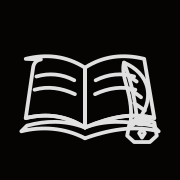
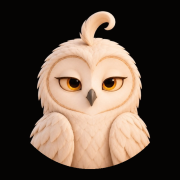
feat(pwa): иконка-сова и исходник для домашнего экрана iOS (#1151)

diff --git a/qa-evidence/brand/README.md b/qa-evidence/brand/README.md
@@ -1,0 +1,38 @@
+# Иконки PWA с совой (issue #1151)
+
+Исходник: `docs/sources/brand/owl-icon-source.jpg` (640×640, прислан владельцем).
+Генератор: `scripts/generate-owl-icons.mjs` (Playwright из devDependencies, новых
+зависимостей нет).
+
+## Что сделано с кольцом
+
+Светлое кольцо на исходнике удалено маской, без дорисовки: скрипт находит окружность
+по внешней границе ярких пикселей (центр 317.83, 311.95; внешний радиус 303.17),
+берёт 2-й процентиль внутреннего края по лучам (289.42) и обрезает всё от 288.67
+наружу. Фон поднимается до #050403 максимумом по каналам, поэтому остаются только
+пиксели совы, а вся площадь квадрата — ровный #050403 (проверено в углу: 5, 4, 3).
+
+Следов кольца нет: за границей обрезки не остаётся ни одного его пикселя.
+
+**Что важно знать:** в нижней части и слева сова подходит к кольцу вплотную и
+перекрывает его внутреннюю сторону. Там перья заканчиваются ровно по внутреннему
+краю кольца — то есть по той линии, где кольцо и начиналось. Дорисовка не
+применялась. Увеличенный кадр: `owl-ring-cut-zoom.png` (слева исходник, справа
+`icon-512.png`).
+
+## Результат
+
+| Файл                             | Размер    | Сова в кадре                 |
+| -------------------------------- | --------: | ---------------------------- |
+| `public/icons/icon-192.png`      | 192×192   | 88.5% по большей стороне     |
+| `public/icons/icon-512.png`      | 512×512   | 87.9%                        |
+| `public/apple-touch-icon.png`    | 180×180   | 87.8%                        |
+| `public/icons/icon-maskable-512.png` | 512×512 | 76.2%, максимальный радиус 197.9 < 204.8 (безопасный круг 80%) |
+
+Сова центрирована: bounding box 512-й иконки `x 84…427`, `y 31…480`, центр 255.5.
+Перо на макушке не обрезано (верх совы — `y 31` при обрезке кольца снизу и по бокам).
+
+Превью всех четырёх иконок: `owl-icons-preview.png` (на maskable пунктиром показана
+безопасная зона 80%).
+
+`favicon.svg`, `favicon.ico`, `manifest.json` не менялись — пути иконок прежние.
